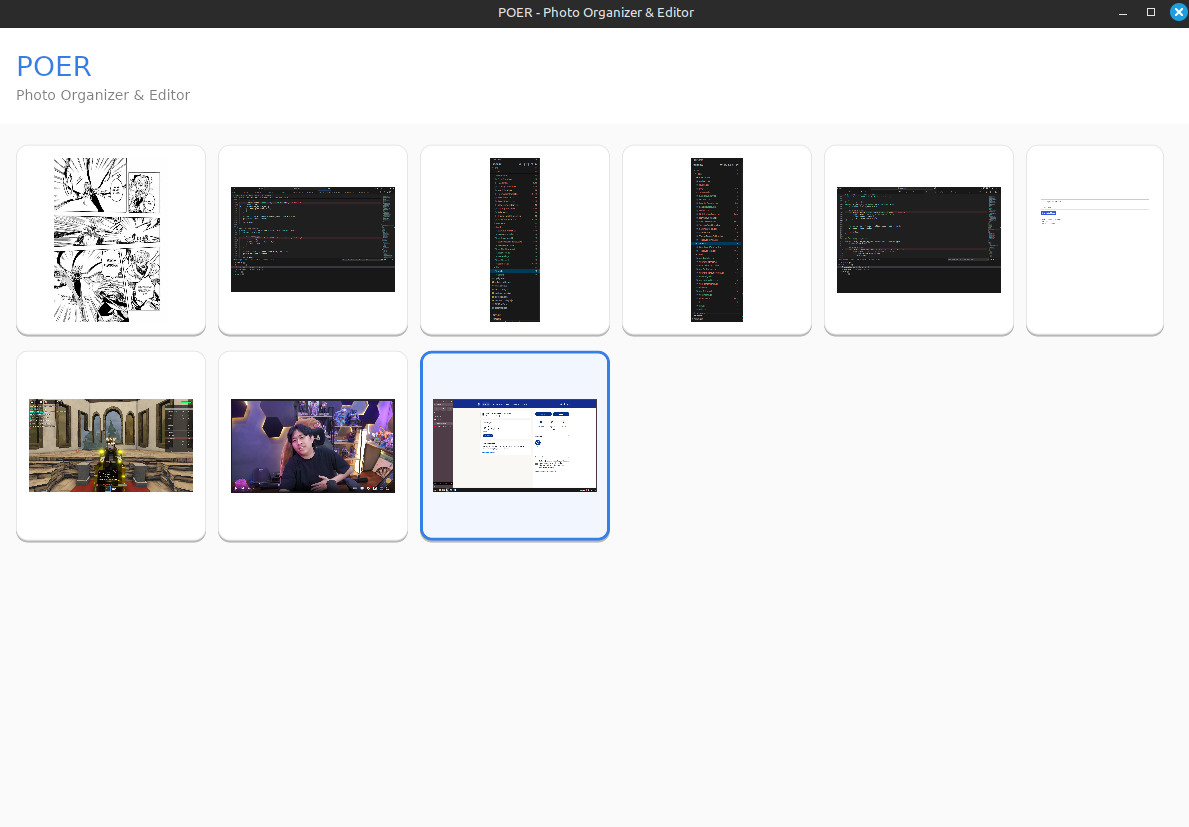
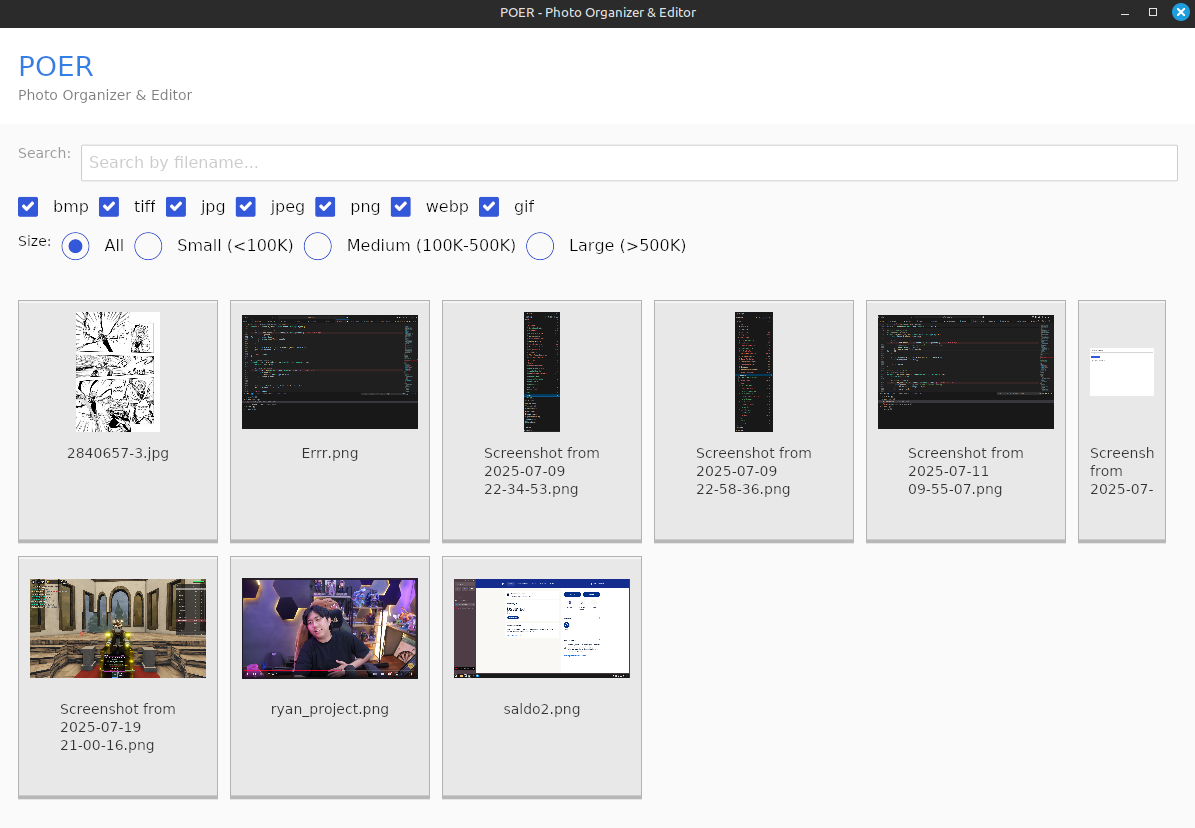
fix(filters): Refine image size filter logic and empty state display
Improve the accuracy of the image size filtering by adjusting the thresholds for "Medium" and "Large" categories. Additionally, ensure the "No photos found" message is correctly displayed when filters result in an empty list of photos.

- Adjust `SizeFilter` thresholds: "Medium" now excludes the upper bound, and "Large" includes the lower bound.
- Remove `SizeFilter::Custom` as it is not used.
- Display `create_empty_view` when `filtered_photos` is empty, providing clear user feedback.
- Update `create_filters` to accept `&PhotoOrganizer` instead of `&'a PhotoOrganizer`.
- Remove unused `palette` variable in `PhotoCardStyle`'s `active`, `hovered`, and `pressed` methods.
- Update `assets/screenshoot.png` and add `assets/screenshoot1.png` to reflect UI changes.

diff --git a/src/app/app.rs b/src/app/app.rs
@@ -33,7 +33,6 @@ pub enum SizeFilter {
     Small,
     Medium,
     Large,
-    Custom(u32),
 }
 
 #[derive(Debug, Clone)]
@@ -119,6 +118,8 @@ impl Application for PhotoOrganizer {
         
         let content = if self.loading {
             create_loading_view()
+        } else if self.filtered_photos.is_empty() {
+            create_empty_view()
         } else {
             create_photo_grid(&self.filtered_photos, self.selected_photo)
         };
@@ -163,7 +164,7 @@ fn create_header() -> Container<'static, Message> {
         .style(theme::Container::Custom(Box::new(HeaderStyle)))
 }
 
-fn create_filters<'a>(app: &'a PhotoOrganizer) -> Container<'a, Message> {
+fn create_filters(app: &PhotoOrganizer) -> Container<Message> {
     let search_input = Text::new("Search:")
         .size(14)
         .style(theme::Text::Color(Color::from_rgb(0.6, 0.6, 0.6)));
@@ -267,7 +268,7 @@ impl iced::widget::button::StyleSheet for PhotoCardStyle {
     type Style = iced::Theme;
 
     fn active(&self, theme: &Self::Style) -> iced::widget::button::Appearance {
-        let palette = theme.extended_palette();
+        let _palette = theme.extended_palette();
         
         iced::widget::button::Appearance {
             background: Some(iced::Background::Color(Color::from_rgba(0.95, 0.95, 0.95, 0.8))),
@@ -279,7 +280,7 @@ impl iced::widget::button::StyleSheet for PhotoCardStyle {
     }
 
     fn hovered(&self, theme: &Self::Style) -> iced::widget::button::Appearance {
-        let palette = theme.extended_palette();
+        let _palette = theme.extended_palette();
         
         iced::widget::button::Appearance {
             background: Some(iced::Background::Color(Color::from_rgba(0.98, 0.98, 0.98, 0.9))),
@@ -290,7 +291,7 @@ impl iced::widget::button::StyleSheet for PhotoCardStyle {
     }
 
     fn pressed(&self, theme: &Self::Style) -> iced::widget::button::Appearance {
-        let palette = theme.extended_palette();
+        let _palette = theme.extended_palette();
         
         iced::widget::button::Appearance {
             background: Some(iced::Background::Color(Color::from_rgba(0.92, 0.92, 0.92, 0.85))),
@@ -353,9 +354,8 @@ impl PhotoOrganizer {
                 match self.size_filter {
                     SizeFilter::All => true,
                     SizeFilter::Small => photo.width * photo.height <= 100_000,
-                    SizeFilter::Medium => photo.width * photo.height > 100_000 && photo.width * photo.height <= 500_000,
-                    SizeFilter::Large => photo.width * photo.height > 500_000,
-                    SizeFilter::Custom(min_size) => photo.width * photo.height >= min_size,
+                    SizeFilter::Medium => photo.width * photo.height > 100_000 && photo.width * photo.height < 500_000,
+                    SizeFilter::Large => photo.width * photo.height >= 500_000,
                 }
             })
             .cloned()
